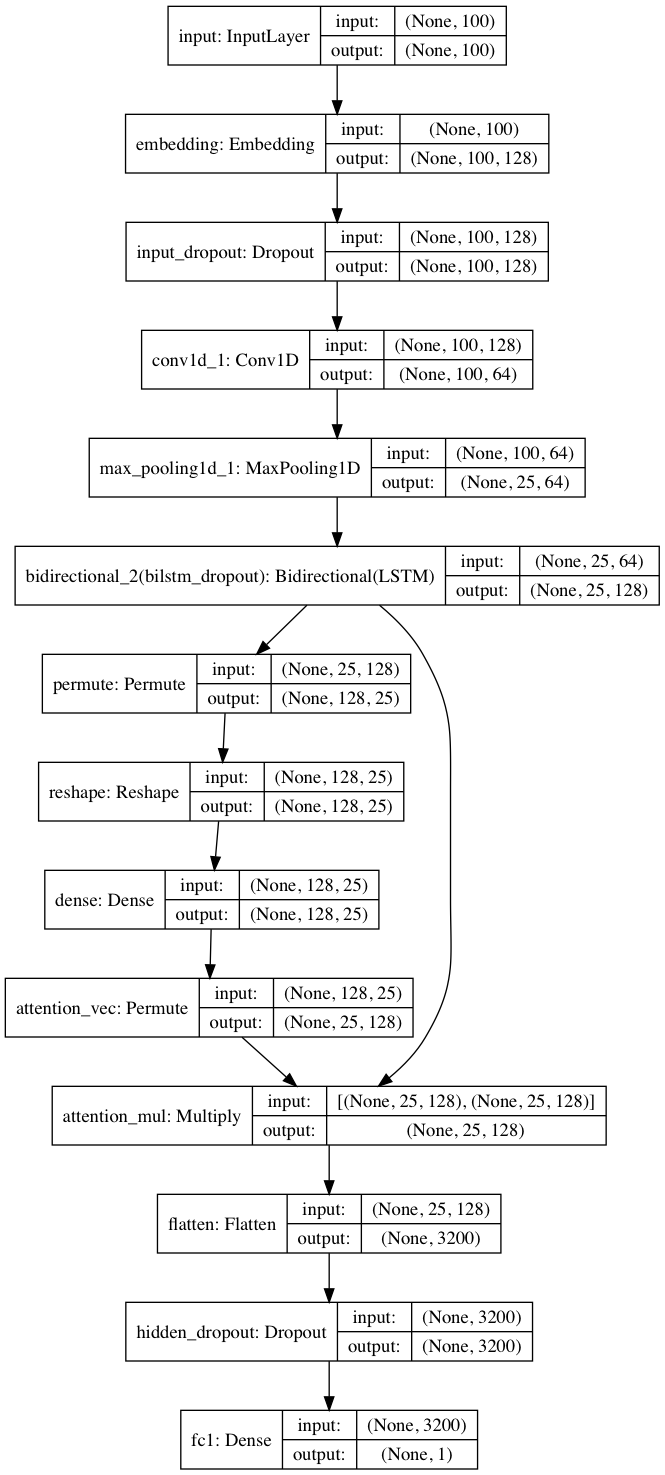
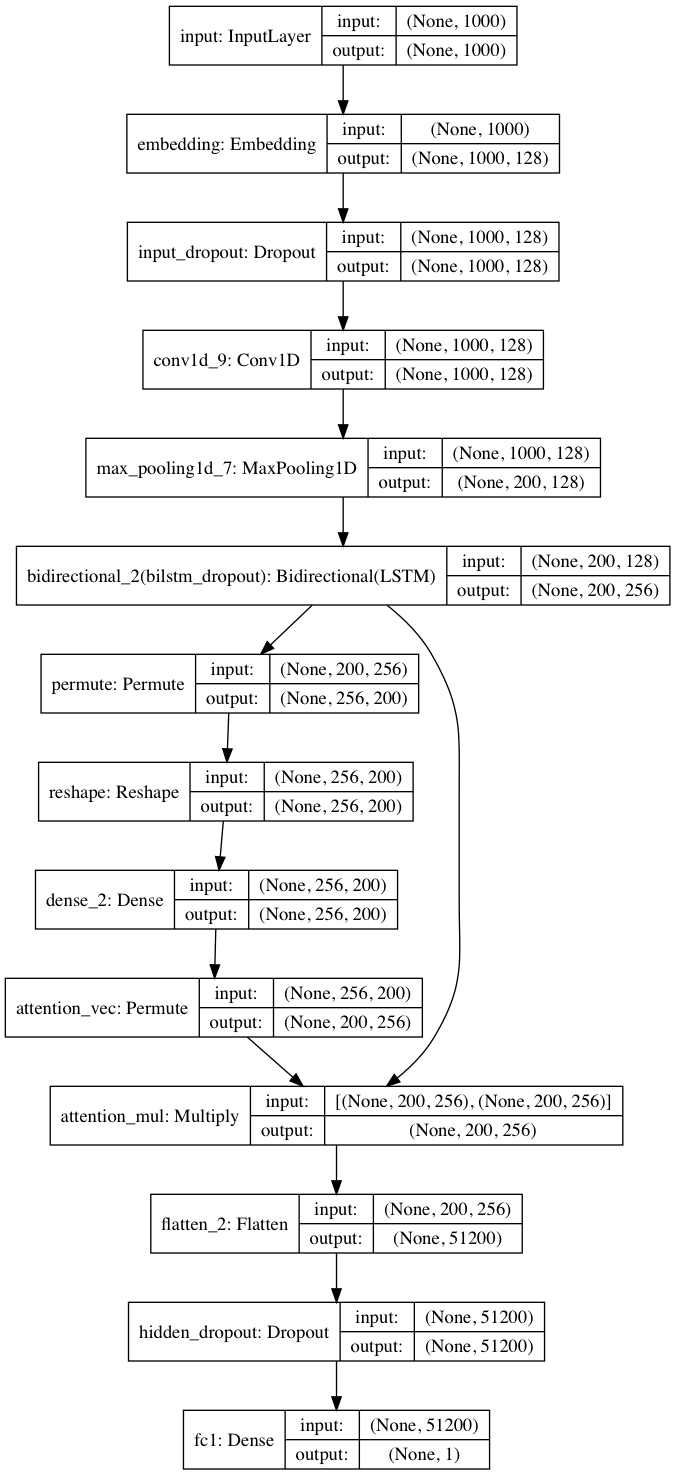
Modify max length of sequence and hidden unit size

diff --git a/trainer/model.py b/trainer/model.py
@@ -19,8 +19,8 @@ model_names = [
 
 
 class BaseModel:
-    def __init__(self, input_dim: int, embed_dim=128, maxlen=100, units=64,
-                 conv_filters=64, conv_kernel_size=5, conv_pool_size=4,
+    def __init__(self, input_dim: int, embed_dim=128, maxlen=1000, units=128,
+                 conv_filters=128, conv_kernel_size=5, conv_pool_size=5,
                  classes=1):
         self.input_dim = input_dim
         self.embed_dim = embed_dim

diff --git a/trainer/datasets.py b/trainer/datasets.py
@@ -4,7 +4,7 @@ from tensorflow.python.keras.preprocessing.sequence import pad_sequences
 from scipy.sparse import csr_matrix
 
 
-def load_imdb(max_features=20000, maxlen=100):
+def load_imdb(max_features=20000, maxlen=1000):
     (X_train, y_train), (X_val, y_val) = _imdb.load_data(num_words=max_features)
     X_train = csr_matrix(pad_sequences(X_train, maxlen=maxlen))
     X_val = csr_matrix(pad_sequences(X_val, maxlen=maxlen))

diff --git a/tests/trainer/datasets_test.py b/tests/trainer/datasets_test.py
@@ -7,7 +7,7 @@ from trainer.datasets import load_imdb
 
 def test_load_imdb():
     max_features = 10000
-    maxlen = 50
+    maxlen = 500
     (X_train, y_train), (X_val, y_val) = load_imdb(max_features=max_features, maxlen=maxlen)
     assert max_features > np.unique(np.concatenate((X_train, X_val))).size
     assert maxlen == len(X_train[0])
